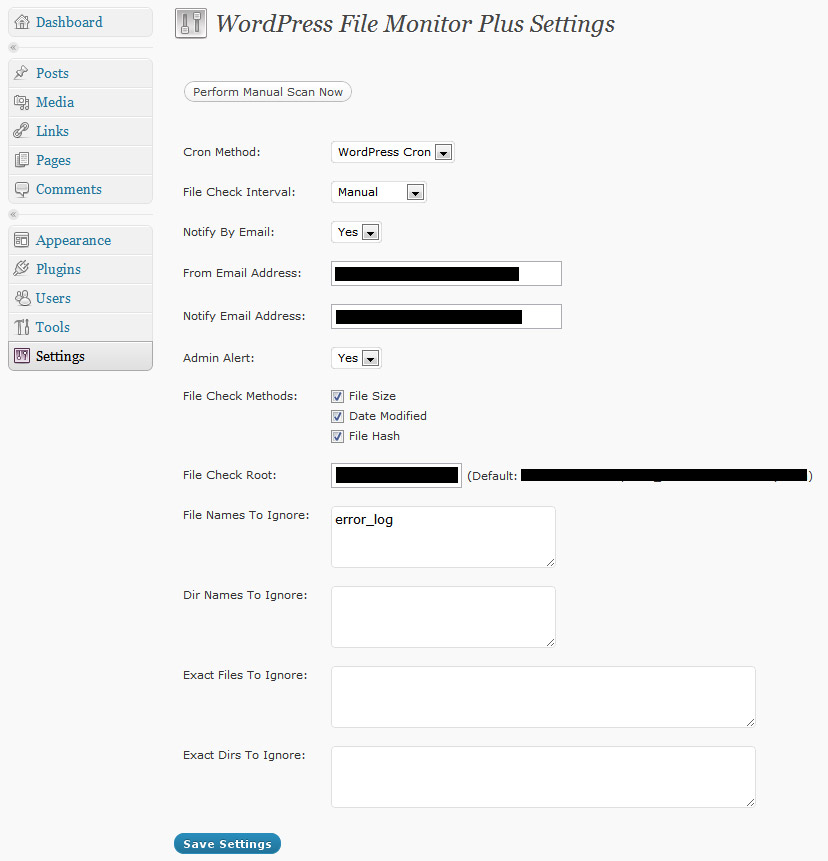
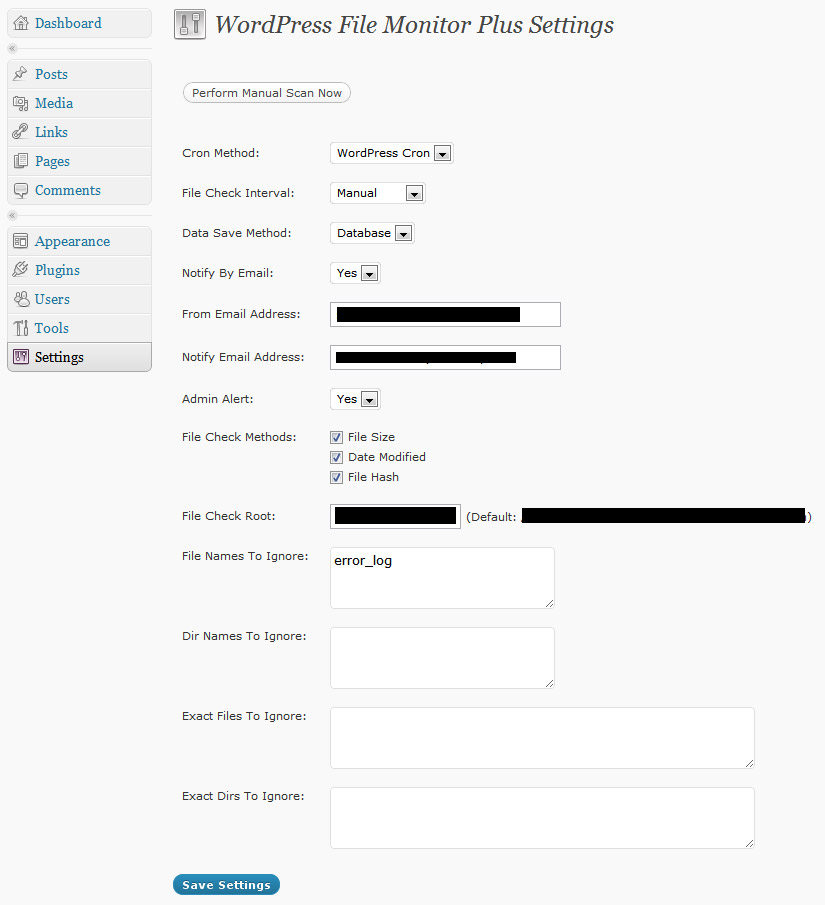
tagging version 1.1
git-svn-id: https://plugins.svn.wordpress.org/wordpress-file-monitor-plus/tags/1.1@375660 b8457f37-d9ea-0310-8a92-e5e31aec5664

diff --git a/js/function.js b/js/function.js
@@ -32,4 +32,11 @@ jQuery(function ($) {
 			$('#sc_wpfmp_from_address, #sc_wpfmp_notify_address').hide();
 		}
 	}).trigger("change");
+	$('select[name="data_save"]').change(function() {
+		if($('select[name="data_save"]').val() == "file") {
+			$('#sc_wpfmp_data_save').show();
+		} else {
+			$('#sc_wpfmp_data_save').hide();
+		}
+	}).trigger("change");
 });

diff --git a/wordpress-file-monitor-plus.php b/wordpress-file-monitor-plus.php
@@ -4,7 +4,7 @@ Plugin Name: WordPress File Monitor Plus
 Plugin URI: http://l3rady.com/projects/wordpress-file-monitor-plus/
 Description: Monitor your website for added/changed/deleted files
 Author: Scott Cariss
-Version: 1.0
+Version: 1.1
 Author URI: http://l3rady.com/
 */
 
@@ -107,6 +107,7 @@ if (!class_exists('sc_WordPressFileMonitorPlus')) {
 					'cron_method' => 'wordpress', // Cron method to be used for scheduling scans
 					'file_check_interval' => 'daily', // How often should the cron run
 					'notify_by_email' => 1, // Do we want to be notified by email when there is a file change?
+					'data_save' => 'database', // Where to save scan data and admin alert message
 					'from_address' => get_option('admin_email'), // Email address the notification comes from
 					'notify_address' => get_option('admin_email'), // Email address the notification is sent to
 					'site_root' => realpath(ABSPATH), // The file check path to start checking files from
@@ -232,12 +233,12 @@ if (!class_exists('sc_WordPressFileMonitorPlus')) {
                                 <select id="sc_wpfmp_form_cron_method" name="cron_method">
                                     <option value="wordpress"<?php echo $selected['wordpress']; ?>><?php _e("WordPress Cron", "wordpress-file-monitor-plus"); ?></option>
                                     <option value="other"<?php echo $selected['other']; ?>><?php _e("Other Cron", "wordpress-file-monitor-plus"); ?></option>
-                                    </select>
+                                </select>
                                 <?php unset($selected); ?>
                             </td>
                         </tr>
                         <tr id="sc_wpfmp_cron_other">
-                            <td valign="middle"><?php _e("Cron Command:", "wordpress-file-monitor-plus"); ?> </td>
+                            <td valign="middle"><?php _e("Cron Command: ", "wordpress-file-monitor-plus"); ?></td>
                             <td valign="middle"><pre>wget <?php echo site_url(); ?>/index.php?sc_wpfmp_scan=1&amp;sc_wpfmp_key=<?php echo $this->settings['security_key']; ?></pre></td>
                         </tr>
                         <tr id="sc_wpfmp_cron_wordpress">
@@ -251,6 +252,21 @@ if (!class_exists('sc_WordPressFileMonitorPlus')) {
                                 </select>
                                 <?php unset($selected); ?>
                             </td>
+                        </tr>
+                        <tr>
+                            <td valign="middle"><label for="sc_wpfmp_form_data_save"><?php _e("Data Save Method: ", "wordpress-file-monitor-plus"); ?></label></td>
+                            <td valign="middle">
+								<?php $selected[$this->settings['data_save']] = " selected=\"selected\""; ?>
+                                <select id="sc_wpfmp_form_data_save" name="data_save">
+                                    <option value="database"<?php echo $selected['database']; ?>><?php _e("Database", "wordpress-file-monitor-plus"); ?></option>
+                                    <option value="file"<?php echo $selected['file']; ?>><?php _e("File", "wordpress-file-monitor-plus"); ?></option>
+                                </select>
+                                <?php unset($selected); ?>
+                            </td>
+                        </tr>
+                        <tr id="sc_wpfmp_data_save">
+                            <td valign="middle">&nbsp;</td>
+                            <td valign="middle"><pre><?php echo dirname(__FILE__)."/data/.sc_wpfmp_scan_data\n".dirname(__FILE__)."/data/.sc_wpfmp_admin_alert_content"; ?></pre>(<?php _e("Please add the above files to Exact Files To Ignore setting", "wordpress-file-monitor-plus"); ?>)</td>
                         </tr>
                         <tr>
                             <td valign="middle"><label for="sc_wpfmp_form_notify_by_email"><?php _e("Notify By Email: ", "wordpress-file-monitor-plus"); ?></label></td>
@@ -389,6 +405,16 @@ if (!class_exists('sc_WordPressFileMonitorPlus')) {
 			
 			$this->settings['file_check_interval'] = $settings['file_check_interval'];
 			
+			
+			// Check if file check interval is manual, hourly, daily or twicedaily
+			if(!($settings['data_save'] == "file" || $settings['data_save'] == "database")) {
+				$this->settingsFailed = true;
+				$this->settingsFailedMessage .= __("Invalid data save method selected", "wordpress-file-monitor-plus")."<br />";
+			}
+			
+			$this->settings['data_save'] = $settings['data_save'];
+			
+			
 			// can only be 1 or 0 so type cast to INT
 			$this->settings['notify_by_email'] = (int) $settings['notify_by_email'];
 			
@@ -463,13 +489,13 @@ if (!class_exists('sc_WordPressFileMonitorPlus')) {
 		*/
 		function scan() {
 			// Get old data
-			$this->oldScanData = maybe_unserialize(get_option('sc_wpfmp_scan_data'));
+			$this->oldScanData = $this->getPutScanData("get");
 			// Get new data
 			$this->newScanData = (array) $this->scan_dirs($this->settings['site_root']);
 			// Lets make sure that the new data is always sorted
 			ksort($this->newScanData);
-			// Save newScanData back to database
-			update_option('sc_wpfmp_scan_data', maybe_serialize($this->newScanData));
+			// Save newScanData back to database or file
+			$this->getPutScanData("put", $this->newScanData);
 			
 			// Only do checks for file ammends/aditions/removals if we have some old
 			// data to check against. Wont have old data if this is first scan.
@@ -490,8 +516,8 @@ if (!class_exists('sc_WordPressFileMonitorPlus')) {
 				if(($count_files_changed >= 1) || ($count_files_addedd >= 1) || ($count_files_removed >= 1)) {
 					// Get html for the alert
 					$alertMessage = $this->format_alert($files_added, $files_removed, $changed_files);
-					// save html into options table to be shown later
-					update_option('sc_wpfmp_admin_alert_content', $alertMessage);
+					// save html into db or file to be shown later
+					$this->getPutAlertContent("put", $alertMessage);
 					// yes there is an admin alert
 					$this->settings["is_admin_alert"] = 1;
 					// Save settings to save admin alert flag.
@@ -773,6 +799,94 @@ if (!class_exists('sc_WordPressFileMonitorPlus')) {
 
 
 		/**
+		 * Function deals with getting and putting scan data to and from DB or FILE
+		 *
+		 * @param string $getorput "get" to get data "put" to put data
+		 * @param array $data if putting data this should contain array of new scan data
+		 * @return array $data if getting data this should contain array of old scan data
+		*/
+		function getPutScanData($getorput, $data = NULL) {
+			
+			// Check how data is to be saved
+			if($this->settings['data_save'] == "file") {
+				$scandatafile = dirname(__FILE__)."/data/.sc_wpfmp_scan_data";
+				
+				// Are we getting or putting data
+				if($getorput == "get") {
+					
+					// Check if file exists. No point reading from file if it doesnt exist yet
+					if(file_exists($scandatafile)) {
+						$data = maybe_unserialize(file_get_contents($scandatafile));
+						return $data;
+					} else {
+						return NULL;	
+					} // End if file exists
+					
+				} else {
+					// Save contents to file
+					file_put_contents($scandatafile, maybe_serialize($data));
+				} // End if get or put
+				
+			} else {
+				
+				// Are we getting or putting data
+				if($getorput == "get") {
+					$data = maybe_unserialize(get_option('sc_wpfmp_scan_data'));
+					return $data;
+				} else {
+					update_option('sc_wpfmp_scan_data', maybe_serialize($data));
+				} // End if get or put
+				
+			} // End if File or Database
+			
+		} // End getPutScanData
+
+
+		/**
+		 * Function deals with getting and putting Admin Alert Content to and from DB or FILE
+		 *
+		 * @param string $getorput "get" to get data "put" to put data
+		 * @param string $data if putting data this should contain alert data
+		 * @return string $data if getting data this should contain alert data
+		*/
+		function getPutAlertContent($getorput, $data = NULL) {
+			
+			// Check how data is to be saved
+			if($this->settings['data_save'] == "file") {
+				$scandatafile = dirname(__FILE__)."/data/.sc_wpfmp_admin_alert_content";
+				
+				// Are we getting or putting data
+				if($getorput == "get") {
+					
+					// Check if file exists. No point reading from file if it doesnt exist yet
+					if(file_exists($scandatafile)) {
+						$data = file_get_contents($scandatafile);
+						return $data;
+					} else {
+						return NULL;	
+					} // End if file exists
+					
+				} else {
+					// Save contents to file
+					file_put_contents($scandatafile, $data);
+				} // End if get or put
+				
+			} else {
+				
+				// Are we getting or putting data
+				if($getorput == "get") {
+					$data = get_option('sc_wpfmp_admin_alert_content');
+					return $data;
+				} else {
+					update_option('sc_wpfmp_admin_alert_content', $data);
+				} // End if get or put
+				
+			} // End if File or Database
+			
+		} // End getPutAlertContent
+
+
+		/**
 		 * Shows warning that files have changed in Wordpress Admin
 		*/
 		function admin_alert() {
@@ -795,7 +909,7 @@ if (!class_exists('sc_WordPressFileMonitorPlus')) {
 		 * Show form to clear admin alert along with last alert. 
 		*/
 		function show_admin_alert() {
-			$alert_content = get_option('sc_wpfmp_admin_alert_content');
+			$alert_content = $this->getPutAlertContent("get");
 			?>
 			<form action="" method="post">
 				<?php wp_nonce_field('sc-wpfmp-update-settings'); ?>
